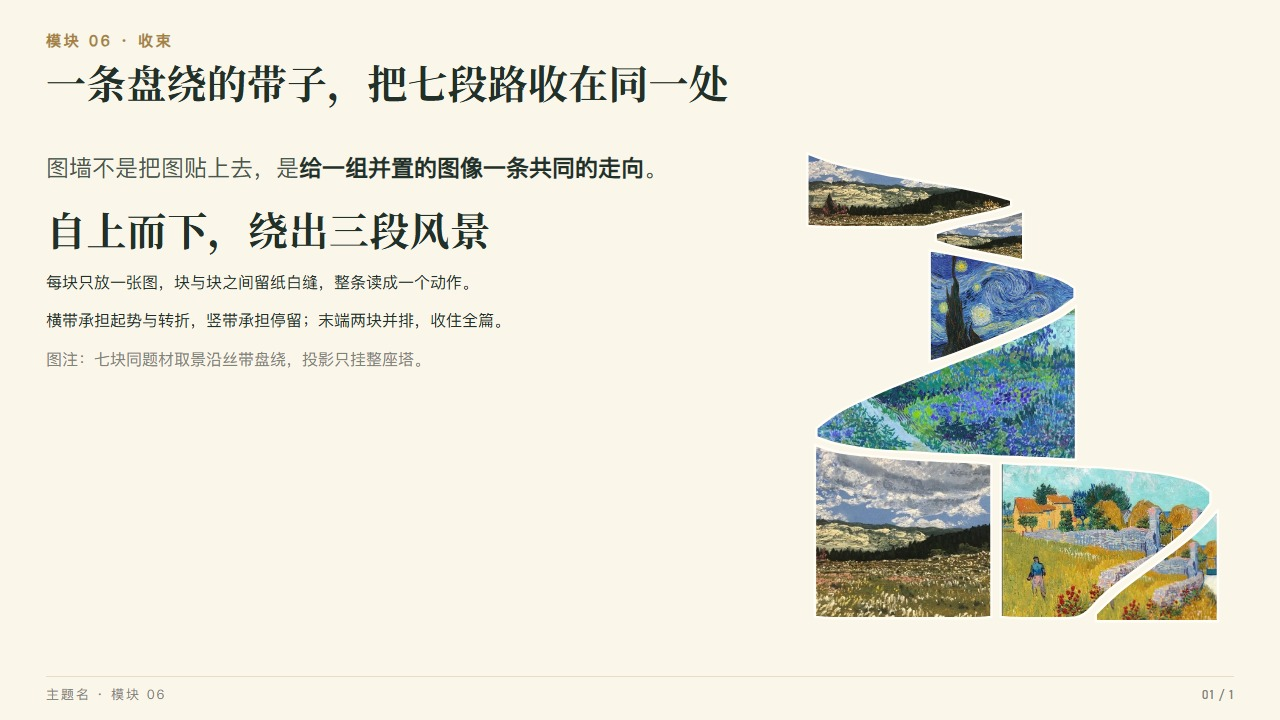
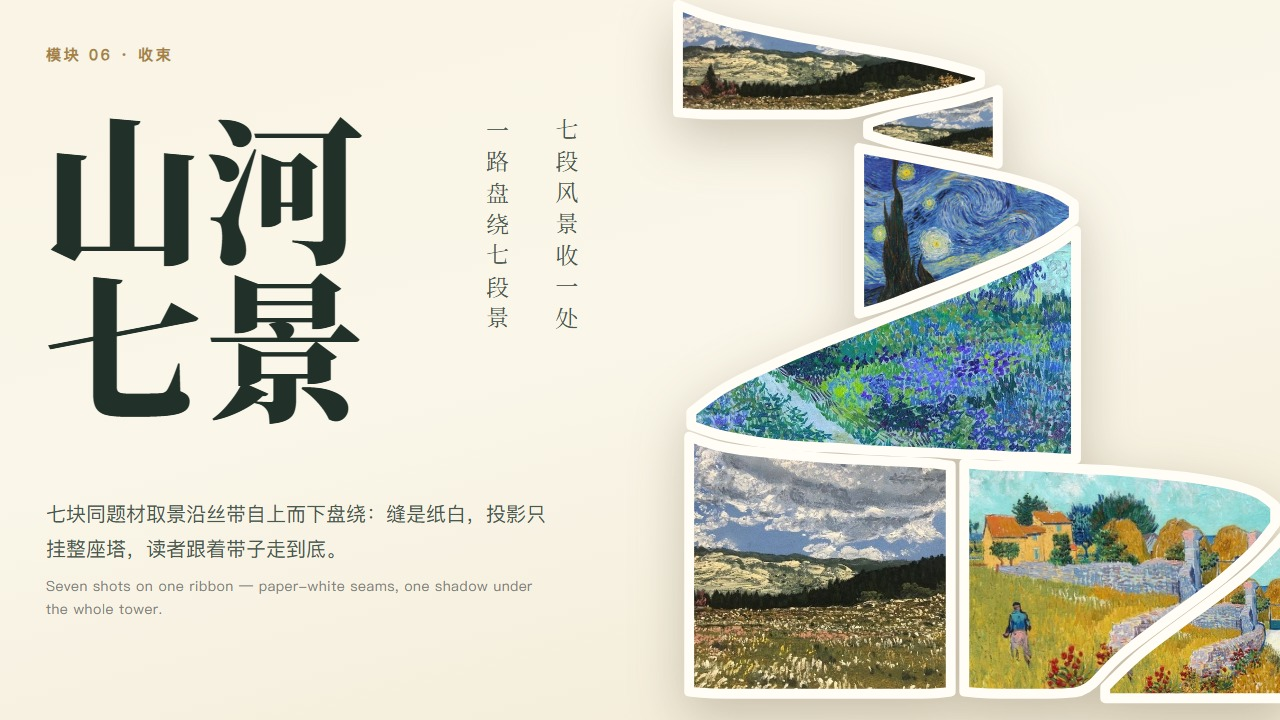
rice-paper-ppt 1.6.0：E 式按参考图重排成封面构图，给出两种落位
参考图是一页封面：左上两行大标题、标题右侧竖排对句、左下两行正文，
右半是一条从顶边切进来、底边切出去的满幅图墙。原来的示例是内容页
（左文右塔、塔只占 430），和它不是一个东西，所以按参考图重做。

同一批 path，两种落位：
- 封面：塔 637×720（637 = 720 × 386/436，正好一页高），right:-30px 出血，
  上下顶到画布边；158px 两行标题 + 23px 竖排两列 + 底部两行正文 + 一行 EN；
  缝放大到 6（显约 10px）。
- 内容页：430×485、缝 2.2，左列导语 + 标题 + 两段 + 图注，原样保留。

theme.css 新增「封面 · E 式满幅盘绕塔」段（.cv-coil / .cv-hero /
.cv-couplet / .cv-lede），要写在 .w-coil 之后靠顺序覆盖 width:100%。

两个坑：竖排对句必须每列一个 div，塞进同一个 vertical-rl 的 flex 容器
会「第一列写到底再换列」并把第二列截断；形状在 viewBox 右侧空着
14.4 单位（637 宽下 24px），不右移就留一条白条。

diff --git a/rice-paper-ppt/assets/theme.css b/rice-paper-ppt/assets/theme.css
@@ -560,6 +560,29 @@ em { font-style: normal; font-weight: 700; color: var(--green); }
   letter-spacing: .12em; color: #35493B; transform: rotate(-7deg); transform-origin: left center;
 }
 
+/* ── 封面 · E 式满幅盘绕塔（右半出血）────────────────────────
+   与 .cover 一起用：塔按页高 720 定宽 637，右移 30px 出血，上下顶到画布边缘。
+   必须写在 .w-coil 之后——两者特异度相同，靠顺序把 width:100% 覆盖掉。 */
+.cv-coil {
+  position: absolute; right: -30px; top: 0; width: 637px; height: auto; display: block;
+  filter: drop-shadow(0 18px 26px rgba(74,58,34,.26));
+}
+.cv-hero {
+  position: absolute; left: 44px; top: 104px; margin: 0;
+  font-family: var(--serif); font-size: 158px; font-weight: 900; line-height: 1;
+  letter-spacing: .02em; color: var(--ink);
+}
+.cv-hero span { display: block; }
+.cv-couplet { position: absolute; left: 478px; top: 118px; display: flex; gap: 30px; }
+.cv-couplet div {
+  writing-mode: vertical-rl; text-orientation: upright;
+  font-family: var(--serif); font-size: 23px; line-height: 1.7;
+  letter-spacing: .36em; color: var(--ink-2);
+}
+.cv-lede { position: absolute; left: 46px; bottom: 100px; width: 500px; margin: 0; }
+.cv-lede p { margin: 0; font-size: 20px; line-height: 1.72; color: var(--ink-2); }
+.cv-lede .en { margin-top: 9px; font-size: 14px; line-height: 1.6; letter-spacing: .04em; color: var(--ink-3); }
+
 /* ── 章节页 ───────────────────────────────────────────────── */
 .sec-num {
   position: absolute; right: 40px; top: 26px;

diff --git a/rice-paper-ppt/references/page-patterns.md b/rice-paper-ppt/references/page-patterns.md
@@ -192,7 +192,7 @@ SVG 的 presentation attribute 不吃 `var()`，所以别在图标里写 `var(--
 | B 波浪贯通式 | 沿连续波浪曲线拼接，形成整体画面 | 连续、推移、无断点 | 4 | 左右出血，铺满画布 | 图下左对齐标题带 |
 | C 纵深渐进式 | 按纵向层次递进，营造空间纵深 | 层进、体系、过程归档 | 8 | 右缘出血贴边，向左收 | 左列结论，两条以内 |
 | D 不对称叶片式 | 以不对称弧形边缘连接，形成叶片效果 | 收束、汇总、收尾 | 4–5 | 左右出血，铺满画布 | 图上居中标题 + 一行图注 |
-| E 盘旋丝带 | 一条带子绕一圈半，切成七块 | 行进、绕行，有起点与终点 | 7（5–7 张图） | 右列竖塔 430×485，不铺满 | 左列，导语 + 标题 + 2 条 |
+| E 盘旋丝带 | 一条带子绕一圈半，切成七块 | 行进、绕行，有起点与终点 | 7（5–7 张图） | 封面满幅 637×720 出血 / 内容页 430×485 | 封面：大标题 + 竖排对句 + 底部正文；内容页：导语 + 标题 + 2 条 |
 
 样式在 `assets/theme.css` 的「图片墙」段：`.wall` 打底，修饰类分别是
 `.w-stag` / `.w-wave` / `.w-depth-stage > .w-depth` / `.w-fan` / `.w-coil`，
@@ -321,12 +321,23 @@ B / C / D 的完整骨架见 `references/components.md` 第八节「图片墙」
 这一式是让读者的眼睛跟着带子走进去、再落到右下角。适合「一段历程」——
 若干阶段有先后、有回旋、最后收在一处。
 
-- 结构：`.grow` 两列（文字 `1fr` + 塔 `430px`、`gap:44px`、`align-items:start`），
+E 有两种落位，**同一批 path，只改塔宽与描边**：
+
+| 落位 | 塔 | 缝 | 左列 | 用在 |
+|---|---|---|---|---|
+| 封面 / 章节页 | 637×720（正好一页高），`right:-30px` 出血，上下顶到画布边 | 6（显约 10px） | 大标题 158px 两行 + 竖排对句 23px 两列 + 底部正文 20px 两行 + EN 14px | 开篇、换章、收尾 |
+| 内容页 | 430×485，`.sb` 里 `align-items:start` | 2.2（显约 2.4px） | 导语 + 标题 40px + 两段正文 + 图注 | 正文中间的案例 |
+
+- 结构（内容页）：`.grow` 两列（文字 `1fr` + 塔 `430px`、`gap:44px`、`align-items:start`），
   左列从 `.lead` 导语开始、到 `.figcap` 收尾，与塔顶齐平。**图注放在左列末尾**——
   留在 `.sb` 里当 flex 项会贴到 `.sb` 底边（实测 503–522），与塔底 462、页脚 533
   三样挤成一堆；挪到 `.sb` 之外又落回普通流、跑到页面顶部。塔是内联
   `<svg class="w-coil" viewBox="-3 -3 386 436">`，`theme.css` 里只给 `width:100%; height:auto`
   和一层 `drop-shadow`。
+- 结构（封面）：`<section class="slide cover">` + `<svg class="w-coil cv-coil">`。
+  637 = 720 × 386/436，塔正好一页高；`right:-30px` 让右缘出血——形状在 viewBox 右侧
+  本来空着 14.4 单位（637 宽下约 24px），不移动就留一条白条，移 30 是连出血 6px 一起算的。标题 `.cv-hero`、对句 `.cv-couplet`、
+  正文 `.cv-lede` 的位置字号都写在 `theme.css` 的「封面 · E 式满幅盘绕塔」段。
 - 七块沿丝带走向：顶部横带 191×74 → 转角小三角 87×53 → 右侧竖带 138×111 →
   **最大的一块 L 形 241×146**（横带接竖带，是整条的主力）→ 左下竖块 167×164 →
   右下横块 196×148 → 右下角小三角 118×108。
@@ -337,7 +348,7 @@ B / C / D 的完整骨架见 `references/components.md` 第八节「图片墙」
   `fill="none" stroke="#FFFDF6" stroke-width="2.2" stroke-linejoin="round"`。
   CSS 的 `clip-path` 描不了边，逐块内缩又得手工算偏移——这是五式里唯一用 SVG 的一式，
   不是风格选择，是几何决定的。
-- `viewBox` 让它随列宽自动缩放：改尺寸只改 grid 的列宽，七条 path 一位不用动
+- `viewBox` 让它随列宽自动缩放：改尺寸只改塔宽，七条 path 一位不用动
   （B/C/D 的 path 是像素写死的，改画布宽要重算）。viewBox 取 `-3 -3 386 436`，
   外扩的 3px 是留给轮廓描边的——改成 `0 0 380 430` 会把最外圈的白描边裁掉。
 - 坑：**七块大小差五倍**。最小的两块（87×53、118×108）只够放「一块色」，
@@ -345,15 +356,18 @@ B / C / D 的完整骨架见 `references/components.md` 第八节「图片墙」
   别指望小块单独表意，也别把唯一的证据图塞进小块。
 - 坑：横图进竖块照样裁得狠，但这里最深的块只有 164，比 D 的 420 温和，
   四张横图够用；图数不够就相邻重复，不要为了凑数换成竖图。
-- 坑：塔高 485 是**故意不铺满**的。16:9 页面上塔从 150 排到 635，距页脚 40px。
-  **430 是这个版面的上限**：列宽 453 时塔高 512、正好顶到 `.sb` 底边（662），
-  与页脚只剩 13px，读成一页塞满；再想大就压 `.sh` 的标题区或换 4:3 画布，别只加列宽。
+- 坑：**缝要跟着塔宽放大**。同一份 `stroke-width` 在 430 宽上是 2.4px（正好），
+  到 637 宽还是 2.2 就只剩一条刻痕——满幅用 6（显 10px）。但别过 8，
+  七块会散成七张贴纸，带子的连续感就没了。
+- 坑：**竖排对句每一列一个 div**。把两列塞进同一个 `writing-mode: vertical-rl` 的 flex 容器，
+  会变成「第一列写到底再换列」，列高不受控，第二列被截（我第一版就把「收在同一处」截成了「收在同」）。
+- 坑（内容页）：塔高 485 是**故意不铺满**的，从 150 排到 635、距页脚 40px。
+  **430 是内容页的上限**：塔宽 453 时高 512、正好顶到 `.sb` 底边（662），与页脚只剩 13px。
   左列必须有导语 + 标题 + 两条正文才压得住，否则整页右重左轻。
-- 坑：`.foot` 必须与 `.sb` **同级**。嵌进 `.sb` 后它的包含块变成 512 高的 `.sb`，
-  `bottom:16px` 会把页脚抬到 619、压住塔底（实测 foot 619–646 vs 塔底 649），
-  而整页仍在 720 上——这类错位在缩略图里看不出来，要量 `getBoundingClientRect`。
-- 坑：`2.2px` 是 1280 宽下的描边值。整页缩到 720 宽时缝只剩 1.2px，会读成「粘在一起」，
-  按缩放比同步调；投影只挂在 `<svg>` 上，逐块 `<g>` 加 `drop-shadow` 会变成七张独立卡片。
+- 坑（封面）：158px 标题两行就占 316 高，正文必须 `bottom:100` 落到底；
+  正文最多两行 + 一行 EN，再多就顶到标题上。
+- 坑：`2.2px` 与 `6` 都是 386 宽 viewBox 里的值，随塔宽等比缩放后才是屏幕像素；
+  投影只挂在 `<svg>` 上，逐块 `<g>` 加 `drop-shadow` 会变成七张独立卡片。
 
 ### 五式通用规则
 

diff --git a/rice-paper-ppt/README.md b/rice-paper-ppt/README.md
@@ -29,7 +29,7 @@ serif display type, projection-scaled typography, a writing-style spec, and a Pl
 - **多图排版五式**：齐边错落式讲并列（4–5 张照片卡）、波浪贯通式讲连续（4 张通栏大 S，只起伏一次）、
   纵深渐进式讲层进（8 张沿垂直轴旋转，右缘贴边、近大远小）、不对称叶片式讲收束（4–5 张同高，
   容器一条遮罩裁出左厚、中小、右回升的连续轮廓）、盘旋丝带讲一段有起点的历程（7 块不规则形状沿
-  一条带子盘绕，每块各填一张图）。墙内等宽白缝、不逐图配卡；立体感来自暖白拼缝、
+  一条带子盘绕，每块各填一张图；可铺成封面右半的满幅视觉，也可收进内容页右列）。墙内等宽白缝、不逐图配卡；立体感来自暖白拼缝、
   沿轮廓投影、边缘顶亮底暗与尺寸错落，不用发光和玻璃。`theme.css` 已内置五式、标题带与 0.7s 入场动画，
   同一组素材的对照图、单格尺寸与横图裁切顺序见下文「图片墙五式」。
 - **可选增强层**：HTML 是载体，不是能力上限。`assets/fx.js` 只在检测到 GSAP 时才接管编排
@@ -65,12 +65,17 @@ serif display type, projection-scaled typography, a writing-style spec, and a Pl
 同一组素材（约 3:2 横构图）在四式下的实际裁切差异一眼可见：C 的格子最接近原比例、几乎不裁，
 A 保留 67%，B / D 的竖格只留 57%。
 
-E 不是「摊开」而是「走进去」：带子绕一圈半，七块从顶部横带一路盘到右下角的两块并排，
-占右列、不铺满画布——左边必须有导语、标题与两条正文压住，否则整页右重左轻。
-下图是 1280×720 的满版示例（16:9，与导出的页面同比例），不是裁出的长条。
+E 不是「摊开」而是「走进去」：带子绕一圈半，七块从顶部横带一路盘到右下角的两块并排。
+它有两种落位，**同一批 path，只改塔宽与描边**：
+
+- **封面 / 章节页**：塔 637×720（正好一页高），右移 30px 出血，上下顶到画布边；
+  左上是 158px 的两行大标题，标题右侧一列竖排对句，左下压两行正文。缝 6（显约 10px）。
+- **内容页**：塔 430×485 收在右列、顶对齐不铺满；左列导语 + 标题 + 两段正文 + 图注。缝 2.2。
+
+下图是封面落位的 1280×720 满版示例（16:9，与导出的页面同比例）。
 
 <p align="center">
-  <img src="examples/wall-coil.jpg" width="900" alt="E 盘旋丝带：七块不规则形状沿一条带子盘绕，每块填一张图，右列竖塔 430×485，1280×720 满版" />
+  <img src="examples/wall-coil.jpg" width="900" alt="E 盘旋丝带封面落位：两行大标题 + 竖排对句 + 底部正文，右半是一条盘绕的图墙，637×720 出血" />
 </p>
 
 | 式 | 形态 | 用于 | 图数 | 单格 | 横构图保留宽度 |

diff --git a/rice-paper-ppt/SKILL.md b/rice-paper-ppt/SKILL.md
@@ -111,7 +111,7 @@ cp -r rice-paper-ppt ~/.claude/skills/
 | 分部分 | 章节分隔（深绿章板） | 底色加重 + 超大编号 + 大标题 + 3 条要点 + 一句格言 + **本章徽记** |
 | 讲一个案例 | 图文分栏 | 图占 45–65%，文字只留 3 条结论 |
 | 两案对照 | 双栏并列 | 等宽两列 + 一条 `.bar` 收束 |
-| 并置一组图 | 图片墙五式 | A 齐边错落式 4–5 张照片卡上下错位 / B 波浪贯通式 4 张通栏大 S 出血（波峰 20%、波谷 81%）/ C 纵深渐进式 8 张透视纵深贴右缘 / D 不对称叶片式 4–5 张一条遮罩裁出不规则叶片 / E 盘旋丝带 7 块盘绕（内联 SVG，右列竖塔）；文字只留一条标题带。同素材对照图 `examples/wall-four.jpg`、E 式示例 `examples/wall-coil.jpg` |
+| 并置一组图 | 图片墙五式 | A 齐边错落式 4–5 张照片卡上下错位 / B 波浪贯通式 4 张通栏大 S 出血（波峰 20%、波谷 81%）/ C 纵深渐进式 8 张透视纵深贴右缘 / D 不对称叶片式 4–5 张一条遮罩裁出不规则叶片 / E 盘旋丝带 7 块盘绕（内联 SVG，两种落位：封面 637×720 右半出血 / 内容页 430×485 收右列）；文字只留一条标题带。同素材对照图 `examples/wall-four.jpg`、E 式示例 `examples/wall-coil.jpg` |
 | 比参数 / 比方案 | 表格 | 4–7 行；7 行以上用 `.tbl.tight` |
 | 展示一段原文 | 引文框 | `pbox` + 结果图 + 高亮本次新增部分 |
 | 讲步骤 | 横向流程 | 4 节点 + 旁注 + `.bar` |
@@ -123,7 +123,8 @@ cp -r rice-paper-ppt ~/.claude/skills/
 
 多图并置的页面按「图片墙五式」选母题：齐边错落式讲并列、波浪贯通式讲连续、纵深渐进式讲层进、
 不对称叶片式讲收束、盘旋丝带讲一段有起点与终点的行进。选型先看内容关系，再看落位：
-B/D 左右出血铺满画布，C 右缘出血贴边并向左收，E 是右列一座竖塔、不铺满。
+B/D 左右出血铺满画布，C 右缘出血贴边并向左收，E 有两种落位——封面铺成右半 637×720 出血，
+内容页收成右列 430 的竖塔、不铺满。
 五式都不给每张图单独配卡片，立体感只来自四件事——暖白拼缝（3px、`#FFFDF6`）、
 沿轮廓的 `drop-shadow`、边缘顶亮底暗、尺寸或位置的错落；发光与玻璃一律不用。
 近大远小必须 `perspective` + `rotateY`，`skewX` 只是斜切，没有纵深。
@@ -277,7 +278,7 @@ rice-paper-ppt/
 └── examples/
     ├── preview.jpg                # 六页骨架预览
     ├── wall-four.jpg              # 图片墙四式同素材对照（A/B/C/D）
-    └── wall-coil.jpg              # E 盘旋丝带单页示例
+    └── wall-coil.jpg              # E 盘旋丝带封面落位示例（637×720 出血）
 ```
 
 ## 参考资料

diff --git a/rice-paper-ppt/references/components.md b/rice-paper-ppt/references/components.md
@@ -216,6 +216,20 @@
 </div>
 ```
 
+<!-- E2 封面满幅：path 与上面完全一样，只改两处 —— class 加 cv-coil、stroke 2.2 → 6。
+     塔按页高 720 定宽 637、右移 30px 出血，上下顶到画布边；样式在 theme.css「封面 · E 式满幅盘绕塔」 -->
+<section class="slide cover">
+  <div class="kick" style="position:absolute;left:46px;top:44px">模块 06 · 收束</div>
+  <h1 class="cv-hero"><span>山河</span><span>七景</span></h1>
+  <div class="cv-couplet"><div>一路盘绕七段景</div><div>七段风景收一处</div></div>
+  <div class="cv-lede">
+    <p>七块同题材取景沿丝带自上而下盘绕：缝是纸白，投影只挂整座塔，读者跟着带子走到底。</p>
+    <p class="en">Seven shots on one ribbon — paper-white seams, one shadow under the whole tower.</p>
+  </div>
+  <!-- 这里放同一个 <svg>，class="w-coil cv-coil"，stroke-width="6" -->
+</section>
+```
+
 - **缝**：3px，B/C 用容器底色 `#FFFDF6`，缝读成白纸；A/D 不留底色，缝露纸底即可。
 - **投影**：裁剪类（B）一律 `drop-shadow`，`box-shadow` 会被 `clip-path` 裁掉；
   A 的阴影挂 `.pc`（挂 `img` 会被底部渐隐一起淡掉）；D 的投影挂**容器**，
